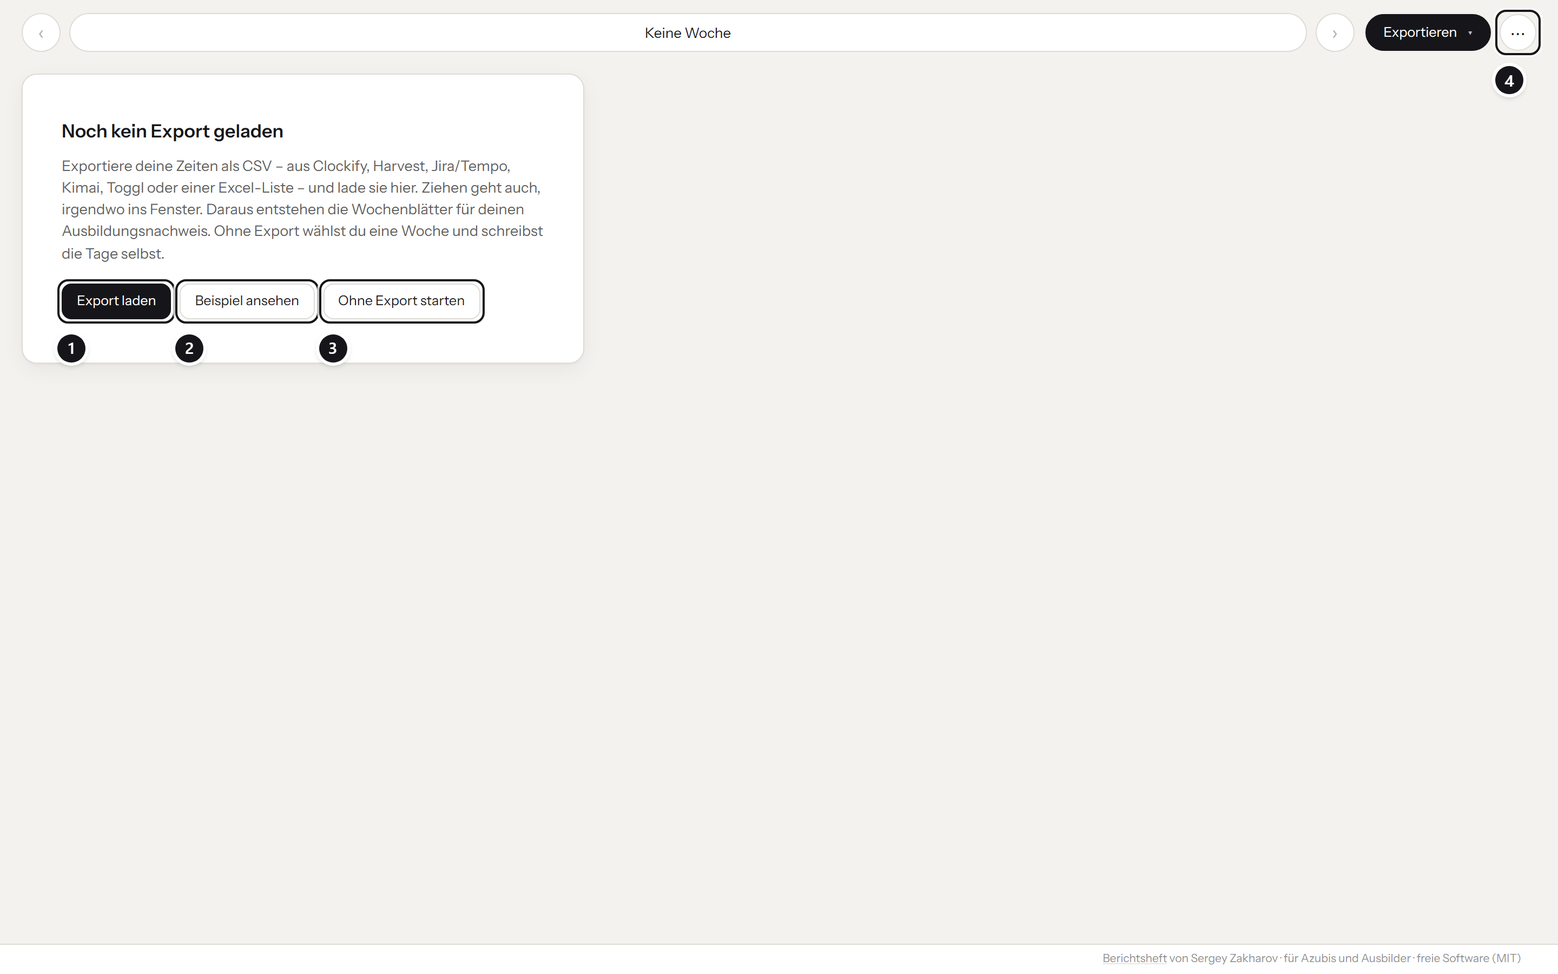
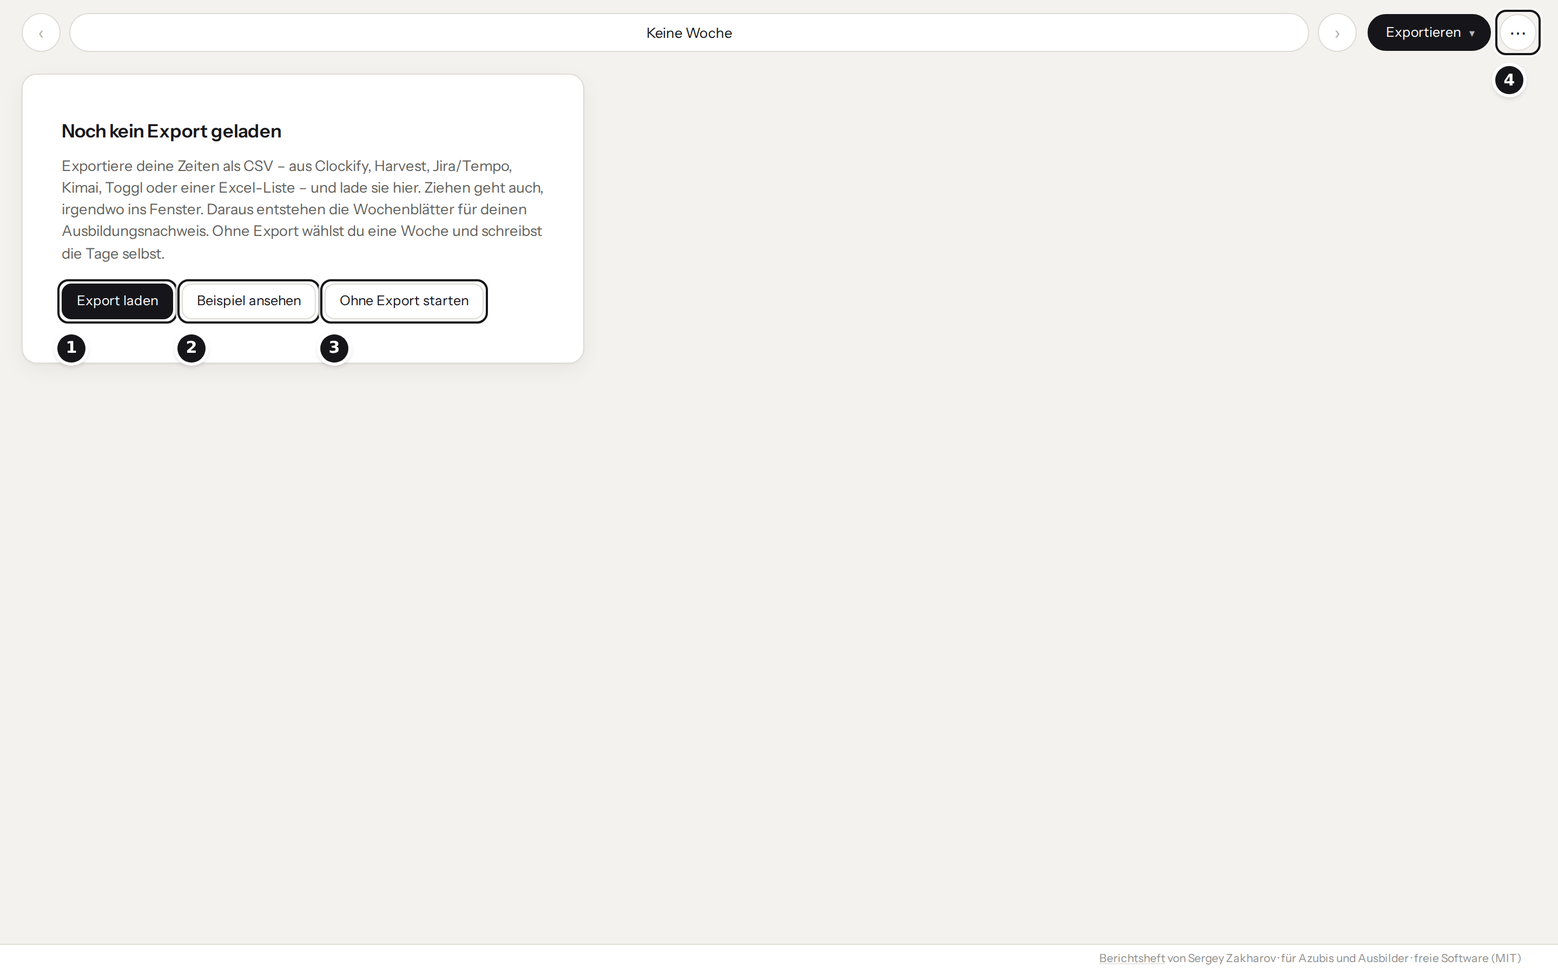
Gelb für „noch gegenlesen“, Rot nur für Probleme; am Handy mehr Platz zum Schreiben
- Neue Farbe --offen (Bernstein) für Entwurf, KI und eigenen Text: Reiter, Wochenknopf,
  Textkasten, Monatsraster und Ausbilderansicht. Rot bleibt für „wird im Blatt eng“, Warnungen
  und Gefahr; nach einem Import stand sonst die ganze Woche in Alarmfarbe
- „Fertig“ ist ein grüner Knopf; der gewählte Reiter trägt bei jedem Stand denselben dunklen
  Rahmen statt einer Füllung in der Standfarbe
- Am Handy stehen Tagesreiter und Woche in einer Zeile (Text neben einer Marke fällt weg), der
  Tageskopf mit Datum, Art und Stunden ebenfalls; das Schreibfeld beginnt rund 140 px höher
- Die Klasse des Tageskopfs heißt artkopf: .tagkopf gibt es schon im gedruckten Blatt, und die
  Handy-Regeln greifen auch beim Drucken (A4 ist schmaler als 820 px)
- Rundgang, README, Erste Schritte und ENTWICKLUNG.md sprechen von Gelb; README-Bilder erneuert

Claude-Session: https://claude.ai/code/session_014ibFh3EoNEXFc2My2DAhsF

diff --git a/src/css/leiste.css b/src/css/leiste.css
@@ -46,10 +46,10 @@
   transition: background-color .15s, border-color .15s;
 }
 .wochenknopf:hover { background: var(--band); border-color: var(--linie-fest); }
-/* Derselbe Stand wie im Monatsraster: rot = Ungelesenes, grün = durch. */
-.wochenknopf.pruefen { color: var(--acht); font-weight: 500; border-color: #EDC6C1; }
+/* Derselbe Stand wie im Monatsraster: Bernstein = Ungelesenes, grün = durch. */
+.wochenknopf.pruefen { color: var(--offen); font-weight: 500; border-color: var(--offen-kante); }
 .wochenknopf.fertig  { color: var(--gut); font-weight: 500; border-color: #BFDDC8; }
-.wochenknopf.pruefen:hover { background: var(--acht-hell); }
+.wochenknopf.pruefen:hover { background: var(--offen-hell); }
 .wochenknopf.fertig:hover  { background: var(--gut-hell); }
 .wochensumme {
   flex: 0 0 auto; display: flex; align-items: center; gap: 12px; height: 36px; padding: 0 14px 0 8px;
@@ -87,15 +87,14 @@
   transition: background-color .15s, border-color .15s, color .15s, box-shadow .15s, transform .15s;
 }
 .reiter button:hover { background: var(--band); border-color: var(--linie-fest); }
+/* Gewählt heißt: dunkler Rahmen, gleich bei jedem Stand. Früher füllte sich der Reiter in der
+   Farbe seines Stands – dunkelrot, grün oder grau –, und ob ein Tag gewählt oder nur offen war,
+   las man an der Sättigung ab. Die Farbe bleibt jetzt dem Stand. */
 .reiter button[aria-selected="true"] {
-  background: var(--text); color: var(--flaeche); border-color: var(--text);
-  box-shadow: 0 6px 16px rgba(22, 22, 26, .18);
+  border-color: var(--text);
+  box-shadow: inset 0 0 0 1px var(--text), 0 6px 16px rgba(22, 22, 26, .14);
 }
-.reiter button[aria-selected="true"] .rlage { color: var(--flaeche); }
-/* Gewählt, aber ohne Stand (kein Text, frei): grau statt schwarz. */
-.reiter button[aria-selected="true"]:not(.fertig):not(.pruefen) {
-  background: #7A7973; border-color: #7A7973; box-shadow: 0 6px 16px rgba(22, 22, 26, .12);
-}
+.reiter button[aria-selected="true"]:not(.fertig):not(.pruefen) { color: var(--text); }
 .reiter .rtag {
   display: flex; gap: 5px; justify-content: center;
   font-size: 12.5px; font-weight: 600; letter-spacing: .04em;
@@ -120,13 +119,8 @@
   background: var(--schiefer); color: #fff;
 }
 .reiter .haken { font-size: 9.5px; }
-.reiter button.pruefen .marke { background: var(--acht); }
+.reiter button.pruefen .marke { background: var(--offen); }
 .reiter button.fertig .haken { background: var(--gut); }
-/* Im gewählten Reiter kehrt sich die Marke um: weißer Kreis, farbige Schrift. */
-.reiter button[aria-selected="true"] .marke,
-.reiter button[aria-selected="true"] .haken { background: #fff; color: var(--text); }
-.reiter button.pruefen[aria-selected="true"] .marke { color: var(--acht); }
-.reiter button.fertig[aria-selected="true"] .haken { color: var(--gut); }
 .reiter .ring { width: 14px; height: 14px; --dicke: 2.5px; }
 .reiter .dreht {
   display: inline-block; width: 10px; height: 10px; flex: none;
@@ -135,14 +129,12 @@
 }
 @keyframes dreh { to { transform: rotate(360deg); } }
 
-/* Der Reiter färbt mit dem Stand des Tages: grün durch, rot ungelesen. */
+/* Der Reiter färbt mit dem Stand des Tages: grün durch, Bernstein ungelesen. */
 .reiter button.fertig { background: var(--gut-hell); color: var(--gut); border-color: #BFDDC8; }
 .reiter button.fertig .rlage { color: var(--gut); }
 .reiter button.fertig:hover { background: #D6EBDC; }
-.reiter button.fertig[aria-selected="true"] { background: var(--gut); border-color: var(--gut); color: #fff; box-shadow: 0 6px 16px rgba(26, 127, 55, .25); }
-.reiter button.fertig[aria-selected="true"] .rlage { color: #fff; }
-.reiter button.pruefen { background: var(--acht-hell); color: var(--acht); border-color: #EDC6C1; }
-.reiter button.pruefen .rlage { color: var(--acht); }
-.reiter button.pruefen:hover { background: #F8D7D3; }
-.reiter button.pruefen[aria-selected="true"] { background: var(--acht); border-color: var(--acht); color: #fff; box-shadow: 0 6px 16px rgba(180, 35, 24, .25); }
-.reiter button.pruefen[aria-selected="true"] .rlage { color: #fff; }
+.reiter button.pruefen { background: var(--offen-hell); color: var(--offen); border-color: var(--offen-kante); }
+.reiter button.pruefen .rlage { color: var(--offen); }
+.reiter button.pruefen:hover { background: #FCEBCB; }
+/* Nach den Standfarben, sonst gewönne deren Rand. */
+.reiter button[aria-selected="true"] { border-color: var(--text); }

diff --git a/src/css/handy.css b/src/css/handy.css
@@ -34,22 +34,37 @@
   .wsanteil { gap: 5px; }
   .wochensumme .ring { width: 18px; height: 18px; --dicke: 3px; }
 
-  /* Reihe 3: sieben Tage in einer Zeile, der Wochenreiter darunter. */
+  /* Reihe 3: sieben Tage und die Woche in einer Zeile. Neben einer Marke steht kein Text mehr,
+     Art und Stunden nennt der Tageskopf darunter. In zwei Reihen mit Stunden lagen Reiter und
+     Tageskopf zusammen rund 230 px über dem Schreibfeld, mit offener Tastatur blieb davon kaum
+     etwas zum Schreiben. */
   /* Oben Abstand zur Kopfleiste: Ohne ihn saßen die Reiter auf deren Trennlinie, und ihr oberer
      Rand samt Rundung wurde abgeschnitten. */
-  .reiter { overflow: visible; flex-wrap: wrap; gap: 5px; padding: 12px 12px 12px; }
-  .reiter button { flex: 1 1 0; min-width: 0; padding: 7px 2px; border-radius: 10px; overflow: hidden; }
-  .reiter button:last-child {
-    flex: 1 1 100%; flex-direction: row; align-items: center; justify-content: center;
-    gap: 10px; padding: 8px 12px;
-  }
+  .reiter { overflow: visible; flex-wrap: nowrap; gap: 4px; padding: 12px 12px 10px; }
+  .reiter button { flex: 1 1 0; min-width: 0; padding: 7px 1px 6px; gap: 4px; border-radius: 10px; overflow: hidden; }
+  .reiter button:last-child { flex: 1.8 1 0; }
   .reiter .rdatum { display: none; }
-  .reiter .rtag { font-size: 11.5px; letter-spacing: .04em; }
-  .reiter .rlage {
-    font-size: 10.5px; gap: 3px; max-width: 100%;
-    overflow: hidden; text-overflow: ellipsis;
+  .reiter .rtag { font-size: 11.5px; letter-spacing: .02em; }
+  .reiter .rlage { font-size: 10px; gap: 3px; max-width: 100%; min-height: 16px; overflow: hidden; }
+  .reiter .rtext { display: block; min-width: 0; max-width: 100%; overflow: hidden; text-overflow: ellipsis; }
+  .reiter .rlage:not(.ohnemarke) .rtext { display: none; }
+
+  /* Tageskopf in einer Zeile: Datum, Art, Stunden. Die Beschriftungen stehen nur noch für
+     Vorleser da, Auswahl und Stundenzahl sprechen für sich. Reicht die Breite nicht, rutschen
+     Art und Stunden unter das Datum. */
+  .artkopf { position: relative; display: flex; flex-wrap: wrap; align-items: center; gap: 4px 12px; padding: 6px 12px; }
+  .artkopf > .sektionskopf {
+    flex: 1 1 auto; min-height: 0; padding: 0; letter-spacing: .05em;
+    background: none; border: 0;
   }
-  .reiter button:not(:last-child) .rlage { flex-direction: column; }
+  .artkopf > .sektionskopf .wochentag { display: none; }
+  .artkopf > .sektionsleib { flex: 1 1 auto; justify-content: space-between; padding: 0; gap: 12px; flex-wrap: nowrap; }
+  .artkopf .feldpaar { flex: none; }
+  /* Sonst so breit wie die längste Art („Betriebsversammlung“), und die Zeile bräche um. */
+  .artkopf select { width: 10em; max-width: 100%; }
+  .artkopf .feldetikett {
+    position: absolute; width: 1px; height: 1px; overflow: hidden; clip-path: inset(50%); white-space: nowrap;
+  }
 
   .tagpanel { padding: 0 12px 14px; gap: 10px; overflow: visible; }
   /* Das Feld wächst mit dem Text (textfeldWachsen() in ansicht-tag.js), statt ihn abzuschneiden. */

diff --git a/src/css/tag.css b/src/css/tag.css
@@ -56,9 +56,9 @@
 
 /* Rot heißt "da muss noch jemand drüber" (roher Entwurf oder ungelesene
    Modellausgabe), grün heißt gegengelesen. */
-.sektion.pruefen { border-color: #EDC6C1; }
+.sektion.pruefen { border-color: var(--offen-kante); }
 .sektion.pruefen > .sektionskopf {
-  background: var(--acht-hell); border-bottom-color: #EDC6C1; color: var(--acht);
+  background: var(--offen-hell); border-bottom-color: var(--offen-kante); color: var(--offen);
 }
 .sektion.fertig { border-color: #BFDDC8; }
 .sektion.fertig > .sektionskopf {
@@ -69,7 +69,7 @@
    gefüllter Knopf = nächster Schritt. Alle als Pillen. */
 .sektionsfahne {
   flex: none; padding: 2px 9px; border: 1px solid currentColor; border-radius: 999px;
-  background: transparent; font-size: 9.5px; font-weight: 600; letter-spacing: .1em; color: var(--acht);
+  background: transparent; font-size: 9.5px; font-weight: 600; letter-spacing: .1em; color: var(--offen);
 }
 .sektionsknopf {
   flex: none; display: inline-flex; align-items: center; gap: 5px;
@@ -81,9 +81,10 @@
 }
 .sektionsknopf:hover { background: var(--band); border-color: var(--linie-fest); }
 .sektionsknopf:disabled { opacity: .45; cursor: default; }
-.sektionsknopf.uebernehmen { background: var(--acht); color: #fff; border-color: var(--acht); }
+/* „Fertig“ macht den Tag grün, also ist der Knopf es schon. */
+.sektionsknopf.uebernehmen { background: var(--gut); color: #fff; border-color: var(--gut); }
 .sektionsknopf.uebernehmen::before { content: "\2713"; font-size: 11px; }
-.sektionsknopf.uebernehmen:hover { background: #8F1C13; border-color: #8F1C13; }
+.sektionsknopf.uebernehmen:hover { background: #146B2E; border-color: #146B2E; }
 .sektionsknopf.bearbeiten { border-color: var(--gut); color: var(--gut); background: var(--flaeche); }
 .sektionsknopf.bearbeiten:hover { background: var(--gut); color: #fff; }
 .sektionsknopf .stift { font-size: 12px; line-height: 1; }
@@ -214,7 +215,7 @@
 .tagpanel textarea:focus-visible,
 .tagpanel textarea:focus { outline: none; box-shadow: inset 0 2px 0 0 var(--text); }
 .sektion.pruefen textarea:focus-visible,
-.sektion.pruefen textarea:focus { box-shadow: inset 0 2px 0 0 var(--acht); }
+.sektion.pruefen textarea:focus { box-shadow: inset 0 2px 0 0 var(--offen); }
 .sektion.fertig textarea:focus-visible,
 .sektion.fertig textarea:focus { box-shadow: inset 0 2px 0 0 var(--gut); }
 /* Übernommen = gesperrt, aber gut lesbar. */

diff --git a/src/css/dialoge.css b/src/css/dialoge.css
@@ -47,7 +47,7 @@
 }
 .wochenliste .leerzeile { padding: 14px 12px; font-size: 12.5px; color: var(--schiefer); }
 
-/* Tageszelle als Kreis: rot = Text ungelesen, grün = gegengelesen,
+/* Tageszelle als Kreis: Bernstein = Text ungelesen, grün = gegengelesen,
    Ring = Stunden ohne Text, durchgestrichen = frei. */
 .wochenliste .wtag {
   display: flex; align-items: center; justify-content: center;
@@ -57,7 +57,7 @@
   display: flex; align-items: center; justify-content: center;
   width: 23px; height: 23px; border-radius: 50%; font-weight: 400; font-size: 11px;
 }
-.wochenliste .wtag.voll b   { background: var(--acht); color: #fff; }
+.wochenliste .wtag.voll b   { background: var(--offen); color: #fff; }
 .wochenliste .wtag.fertig b { background: var(--gut); color: #fff; }
 .wochenliste .wtag.offen b  { border: 1.5px solid var(--text); }
 .wochenliste .wtag.frei b   { color: #A8A8A8; text-decoration: line-through; }
@@ -65,11 +65,11 @@
 
 .wochenliste button.pruefen,
 .wochenliste button.pruefen .wkw,
-.wochenliste button.pruefen .wstd { color: var(--acht); }
+.wochenliste button.pruefen .wstd { color: var(--offen); }
 .wochenliste button.fertig,
 .wochenliste button.fertig .wkw,
 .wochenliste button.fertig .wstd { color: var(--gut); }
-.wochenliste button.pruefen:hover:not(:disabled) { background: var(--acht-hell); }
+.wochenliste button.pruefen:hover:not(:disabled) { background: var(--offen-hell); }
 .wochenliste button.fertig:hover:not(:disabled) { background: var(--gut-hell); }
 
 /* Die gewählte Woche bekommt einen Balken links statt einer anderen
@@ -77,7 +77,7 @@
 .wochenliste button[aria-current="true"] {
   background: var(--band); box-shadow: inset 3px 0 0 0 var(--text); font-weight: 600;
 }
-.wochenliste button.pruefen[aria-current="true"] { background: var(--acht-hell); box-shadow: inset 3px 0 0 0 var(--acht); }
+.wochenliste button.pruefen[aria-current="true"] { background: var(--offen-hell); box-shadow: inset 3px 0 0 0 var(--offen); }
 .wochenliste button.fertig[aria-current="true"]  { background: var(--gut-hell); box-shadow: inset 3px 0 0 0 var(--gut); }
 
 .sprungzeile { display: flex; gap: 8px; margin-top: 10px; }

diff --git a/src/css/ausbilder.css b/src/css/ausbilder.css
@@ -52,7 +52,7 @@ body.alsausbilder .leiste { display: none; }
 .atagstand { display: inline-flex; align-items: center; gap: 8px; font-size: 11.5px; letter-spacing: .02em; color: var(--schiefer); }
 .atag.offen .atagstand { color: var(--acht); }
 .atag.fertig .atagstand { color: var(--gut); }
-.atagstand .marke { background: var(--acht); }
+.atagstand .marke { background: var(--offen); }
 .atagstand .haken { background: var(--gut); }
 .atagstand .marke, .atagstand .haken {
   display: inline-flex; align-items: center; justify-content: center;
@@ -111,12 +111,12 @@ body.alsausbilder .leiste { display: none; }
   transition: background-color .15s, border-color .15s;
 }
 .aauswahlknopf:hover { background: var(--band); border-color: var(--linie-fest); }
-.aauswahlknopf.pruefen { border-color: #EDC6C1; background: var(--acht-hell); }
-.aauswahlknopf.pruefen:hover { background: #F8D7D3; }
+.aauswahlknopf.pruefen { border-color: var(--offen-kante); background: var(--offen-hell); }
+.aauswahlknopf.pruefen:hover { background: #FCEBCB; }
 .aauswahlknopf.fertig { border-color: #BFDDC8; background: var(--gut-hell); }
 .aauswahlknopf .aname { font-weight: 600; font-size: 14.5px; min-width: 12em; }
 .aauswahlknopf .alage { display: inline-flex; align-items: center; gap: 8px; font-size: 13px; }
-.aauswahlknopf.pruefen .alage { color: var(--acht); }
+.aauswahlknopf.pruefen .alage { color: var(--offen); }
 .aauswahlknopf.fertig .alage { color: var(--gut); }
 .aauswahlknopf .azuletzt { margin-left: auto; font-size: 12.5px; color: var(--schiefer); }
 .aauswahlknopf .marke, .aauswahlknopf .haken {
@@ -124,7 +124,7 @@ body.alsausbilder .leiste { display: none; }
   min-width: 16px; height: 16px; padding: 0 3px; border-radius: 999px;
   font-size: 9px; font-weight: 700; color: #fff; background: var(--schiefer);
 }
-.aauswahlknopf.pruefen .marke { background: var(--acht); }
+.aauswahlknopf.pruefen .marke { background: var(--offen); }
 .aauswahlknopf.fertig .haken { background: var(--gut); }
 .aauswahlknopf .punkt { width: 9px; height: 9px; border-radius: 50%; border: 1.5px solid currentColor; }
 .aauswahl { width: 100%; flex: 1 1 100%; }

diff --git a/src/js/ansicht/rundgang.js b/src/js/ansicht/rundgang.js
@@ -23,7 +23,7 @@ var RUNDGANG = [
           "die Mitte öffnet den Kalender." },
   { ziel: ["#reiter"],
     titel: "Ein Reiter je Tag",
-    text: "Der achte Reiter gehört der ganzen Woche. Grün heißt fertig, rot heißt: " +
+    text: "Der achte Reiter gehört der ganzen Woche. Grün heißt fertig, gelb heißt: " +
           "da musst du noch drüber." },
   { ziel: ["#tagbereich .tagpanel"],
     titel: "Schreiben",
@@ -31,7 +31,7 @@ var RUNDGANG = [
           "Nachschauen. Unten am Feld siehst du, ob der Text auf das Blatt passt." },
   { ziel: [".sektion.wachsend > .sektionskopf", "#tagbereich .tagpanel"],
     titel: "Erst prüfen, dann fertig",
-    text: "Solange der Kasten rot ist, hat den Text noch niemand freigegeben. " +
+    text: "Solange der Kasten gelb ist, hat den Text noch niemand freigegeben. " +
           "Ein Klick auf „Fertig“ macht ihn grün — „Bearbeiten“ öffnet ihn wieder." },
   { ziel: [".leiste .schub", "#btn-mehr"],
     titel: "Fertig? Dann raus damit",
@@ -48,7 +48,7 @@ var RUNDGANG_AUSBILDER = [
           "Word oder PDF. Schreiben und ändern können nur die Azubis selbst." },
   { ziel: [".aauswahl"],
     titel: "Wen möchtest du ansehen?",
-    text: "Oben stehen die Azubis, bei denen etwas zu tun ist. Rot heißt: Wochen warten aufs " +
+    text: "Oben stehen die Azubis, bei denen etwas zu tun ist. Gelb heißt: Wochen warten aufs " +
           "Gegenlesen. Grün heißt: alles übernommen." },
   { ziel: ["#btn-gruppe"],
     titel: "Deine Gruppe",

diff --git a/src/js/ansicht/reiter.js b/src/js/ansicht/reiter.js
@@ -64,12 +64,13 @@ function tagReiter(montag, i) {
   else if (stand === "fertig" && !frei) marke = '<span class="haken" title="gegengelesen">✓</span>';
   else if (fehlt) marke = '<span class="punkt" title="noch kein Text"></span>';
 
+  // Am Handy bleibt neben einer Marke kein Platz für den Text (handy.css); ohne Marke steht er da.
   b.innerHTML =
     '<span class="rtag"><span class="rkurz">' + KURZ[datum.getDay()].toUpperCase() +
     '</span><span class="rdatum">' + dm(datum) + "</span></span>" +
-    '<span class="rlage">' + marke +
+    '<span class="rlage' + (marke ? "" : " ohnemarke") + '">' + marke + '<span class="rtext">' +
     (frei ? sicher(art) : t && t.stunden ? stundenText(t.stunden) + "\u2009h" : schule ? "Schule" : "—") +
-    "</span>";
+    "</span></span>";
   b.addEventListener("click", function () {
     aktiverTag = i; zeichneReiter(); zeichneTag(); merken();
   });
@@ -102,7 +103,7 @@ function wochenReiter() {
     : ringHtml(anteil.fertig, anteil.von, anteil.fertig + " von " + anteil.von + " Tagen gegengelesen");
   w.innerHTML =
     '<span class="rtag"><span class="rkurz">WOCHE</span></span>' +
-    '<span class="rlage">' + marke + (wocheVoll ? "ausgefüllt" : "offen") + "</span>";
+    '<span class="rlage">' + marke + '<span class="rtext">' + (wocheVoll ? "ausgefüllt" : "offen") + "</span></span>";
   w.addEventListener("click", function () { aktiverTag = 7; zeichneReiter(); zeichneTag(); });
   return w;
 }

diff --git a/src/js/ansicht/ansicht-tag.js b/src/js/ansicht/ansicht-tag.js
@@ -143,7 +143,12 @@ function zeichneLeerbild(bereich) {
 /** Kopf des Tages: Art des Tages und Stunden. Die Stunden kommen aus dem Import
  *  und sind nur Anzeige; im Nachweis steht keine Stundenzahl. */
 function artSektion(datum, key, t, art, istFrei) {
-  var s = sektion(WOCHENTAGE[datum.getDay()] + ", " + dmy(datum));
+  var s = sektion(dmy(datum), "artkopf");
+  // Am Handy steht der Wochentag schon im gewählten Reiter; dort fällt er hier weg (handy.css).
+  var wochentag = document.createElement("span");
+  wochentag.className = "wochentag";
+  wochentag.textContent = WOCHENTAGE[datum.getDay()] + ", ";
+  s.kopf.firstChild.insertBefore(wochentag, s.kopf.firstChild.firstChild);
 
   var wahl = document.createElement("select");
   wahl.id = "feld-art";
@@ -186,7 +191,7 @@ function artSektion(datum, key, t, art, istFrei) {
  * Das Textfeld des Tages mit Herkunftsfahne, Fertig/Bearbeiten,
  * optionalem KI-Knopf und Zeilenstand.
  *
- * Solange der Text nicht übernommen ist, ist der Kasten rot. Übernommen
+ * Solange der Text nicht übernommen ist, ist der Kasten gelb. Übernommen
  * ist er grün und schreibgeschützt; "Bearbeiten" öffnet ihn wieder. Jede
  * Änderung hebt die Freigabe auf.
  */

diff --git a/src/css/basis.css b/src/css/basis.css
@@ -27,8 +27,11 @@
 /* Weiße Karten auf warmem Grau, weiche Kanten. Kreise sind Marken
    (Stand eines Tages, Fortschritt, runde Symbolknöpfe), Glas nur dort,
    wo Inhalt dahinter liegt: Menüs, Wochenwahl, Dialoggrund, Modelllauf.
-   Die einzigen Farben sind Grün ("passt") und Rot ("sieh hin"); sie
-   stehen nie allein, daneben steht immer ein Wort oder eine Zahl. */
+   Drei Farben, jede mit einer Bedeutung: Grün ("passt"), Bernstein ("noch
+   gegenlesen") und Rot ("fehlt oder passt nicht"). Nach einem Import ist
+   fast alles noch zu lesen; war das rot, stand die ganze Woche in
+   Alarmfarbe, und ein Text, der nicht aufs Blatt passt, ging darin unter.
+   Keine Farbe steht allein, daneben steht immer ein Wort oder eine Zahl. */
 :root {
   --text:      #16161A;
   --linie:     #DEDCD6;   /* Kanten von Karten und Feldern */
@@ -39,6 +42,9 @@
   --schiefer:  #62615C;   /* Sekundärtext */
   --gut:       #1A7F37;
   --gut-hell:  #E6F4EA;
+  --offen:     #8F5A00;   /* 5,3 : 1 auf --offen-hell */
+  --offen-hell:#FFF5E3;
+  --offen-kante:#EFD6A6;
   --acht:      #B42318;
   --acht-hell: #FDECEA;
   --glas:      rgba(255, 255, 255, .68);

diff --git a/src/js/konto/ausbilder.js b/src/js/konto/ausbilder.js
@@ -336,7 +336,7 @@ function azubiTagLeer(t) {
 
 /**
  * Lage eines Tages im Raster, mit denselben Klassen wie im Heft (tagLage()):
- *   voll    Text da, noch nicht übernommen (roter Kreis)
+ *   voll    Text da, noch nicht übernommen (gelber Kreis)
  *   fertig  übernommen (grüner Kreis)
  *   offen   Stunden oder Berufsschule, aber kein Text (Ring)
  *   frei    Urlaub, Krank, Feiertag (durchgestrichen)

diff --git a/docs/ENTWICKLUNG.md b/docs/ENTWICKLUNG.md
@@ -111,7 +111,9 @@ Die Ordner ordnen nach Aufgabe; für den Build zählt allein die Liste `JS` in `
 Reihenfolge wie in der Liste `CSS` in `build.js`: `basis.css` (Farben, Schrift, Grundgerüst),
 `leiste.css` (Kopfleiste, Wochenbalken, Reiter), `tag.css` (Tagbereich, Sektionen, Wochenansicht,
 Eingaben, Meldungen), `dialoge.css` (Monatsraster, „Deine Daten“, Zuordnung, Rundgang),
-`handy.css` (alle `@media`-Regeln für Handy und Tablet), `ausbilder.css` (Konto und Ausbilderansicht),
+`handy.css` (alle `@media`-Regeln für Handy und Tablet; dort stehen die Tagesreiter in einer Zeile
+und der Tageskopf `.artkopf` mit Datum, Art und Stunden ebenfalls, damit das Schreibfeld auch mit
+offener Tastatur Platz hat), `ausbilder.css` (Konto und Ausbilderansicht),
 `blatt.css` (der Drucksatz des Vordrucks).
 
 ## Datenmodell
@@ -178,13 +180,18 @@ die Rolle kennt.
 | Stand | Bedeutung | Farbe |
 | --- | --- | --- |
 | `leer` | kein Text | – |
-| `roh` | `text === entwurf` | rot, Marke „E“ |
-| `ki` | `text === kiText` | rot, Marke „KI“ |
-| `eigen` | selbst geschrieben, nicht übernommen | rot, Marke „!“ |
+| `roh` | `text === entwurf` | gelb (`--offen`), Marke „E“ |
+| `ki` | `text === kiText` | gelb, Marke „KI“ |
+| `eigen` | selbst geschrieben, nicht übernommen | gelb, Marke „!“ |
 | `fertig` | `geprueft` | grün, Haken |
 
 Jede Änderung am Text hebt `geprueft` auf. Übernommene Tage sind
 schreibgeschützt, bis man **Bearbeiten** drückt.
+
+Rot (`--acht`) steht nicht für einen Stand, sondern für ein Problem: ein Text, der nicht aufs Blatt
+passt, Warnungen, der Bereich „Gefahr“. Nach einem Import ist fast jeder Tag noch zu lesen; in Rot
+stand dann die ganze Woche in Alarmfarbe, und „wird im Blatt eng“ ging darin unter. Der gewählte
+Reiter trägt einen dunklen Rahmen, bei jedem Stand gleich; seine Farbe bleibt die seines Stands.
 
 ### Stand einer Woche (`wochenStand()`)
 

diff --git a/CHANGELOG.md b/CHANGELOG.md
@@ -15,6 +15,16 @@ Werkzeug arbeitet. Was im Browser gespeichert ist, bleibt ladbar.
   für die Unterrichtsthemen. Feiertage, Tage außerhalb der Vertragslaufzeit und Tage mit Buchungen
   oder Text ändert der Plan nicht. Das Beispiel hat donnerstags Schule.
 
+### Geändert
+
+- **Farben:** Was noch gegenzulesen ist (Entwurf, KI, eigener Text), ist gelb statt rot. Rot bleibt
+  für Probleme wie „wird im Blatt eng“ und für Warnungen. Nach einem Import stand sonst die ganze
+  Woche in Alarmfarbe. „Fertig“ ist ein grüner Knopf, der gewählte Tag trägt bei jedem Stand
+  denselben dunklen Rahmen.
+- **Am Handy** stehen die Tagesreiter mit der Woche in einer Zeile, Datum, Art und Stunden des Tages
+  ebenfalls. Das Schreibfeld beginnt rund 140 px weiter oben und bleibt mit offener Tastatur
+  sichtbar.
+
 ### Behoben
 
 - **„Arbeitstag“ von Hand** an einem Feiertag wurde beim nächsten Import derselben Datei wieder
